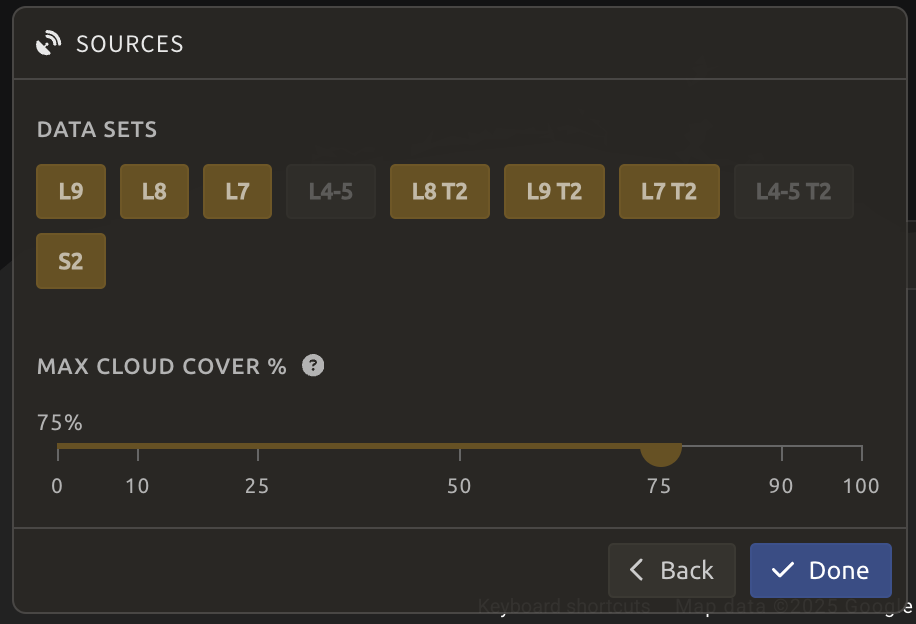
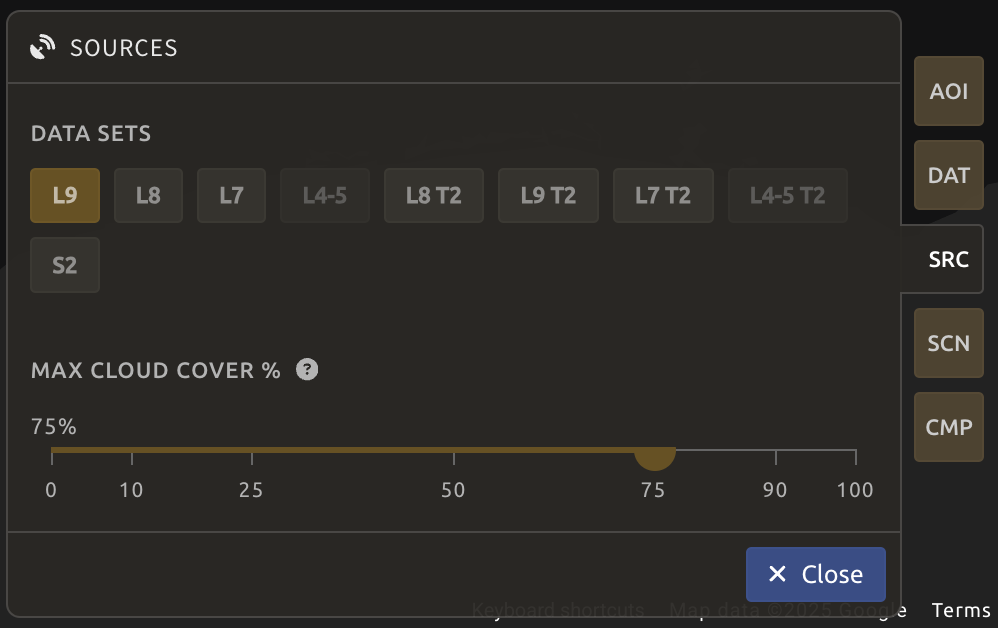
sepal_prep updates

diff --git a/08_class_SEPAL/01_preprocessing.md b/08_class_SEPAL/01_preprocessing.md
@@ -33,7 +33,7 @@ SEPAL offers an interactive and intuitive way to create mosaics in any area of i
 
 ## Start
 
-In the window below, click `Add recipe` and type `mosaic` to select the `Optical mosaic` recipe.
+At the top-left of your screen, click the green `Add recipe` button and type `mosaic` to select the `Optical mosaic` recipe.
 
 ![Add recipe](../images/sepal/sepal_prep/sepal_prep_2_5.png)
 ![Mosaic](../images/sepal/sepal_prep/sepal_prep_2_6.png)
@@ -116,20 +116,20 @@ A mosaic uses different raster datasets obtained from multiple sources. SEPAL al
 - **L7**: Landsat 7 [Tier 1](https://developers.google.com/earth-engine/datasets/catalog/LANDSAT_LE07_C02_T1) and [Tier 2](https://developers.google.com/earth-engine/datasets/catalog/LANDSAT_LC09_C02_T2)
 - **S2**: Sentinel-2 [Multispectral](https://developers.google.com/earth-engine/datasets/catalog/COPERNICUS_S2_HARMONIZED)
 
-Select all available options and click `Done`.
+Let's select L9 Tier 1 and click `Done`.
 ![Source selection](../images/sepal/sepal_prep/sepal_prep_10.png)
 
 ### Scenes
 
 > **Note:** If Sentinel and Landsat data have been selected, you will need to use all scenes. As the tiling system from Sentinel and Landsat data are different, it’s impossible to select scenes using the tool presented in the following sections.
 
-You can select scenes manually or automatically:
+You can select scenes for mosaic manually or automatically:
 
-- `Use all scenes`: Includes all available images.
-- `Select scenes`: Prioritize based on:
-  - **Cloud-free**: Prioritizes images with zero or few clouds.
-  - **Target date**: Prioritizes images that match the target date.
-  - **Balanced**: Maximizes both cloud-free and target date criteria.
+  - **Use all scenes**: Includes all available images based on date parameters.
+  - **Select scenes**: Prioritize based on the following **Priority** options:
+  - _Cloud-free_: Prioritizes images with zero or few clouds.
+  - _Target date_: Prioritizes images that match the target date.
+  - _Balanced_: Maximizes both cloud-free and target date criteria.
 
 ![Scene selection](../images/sepal/sepal_prep/sepal_prep_11.webp)
 
